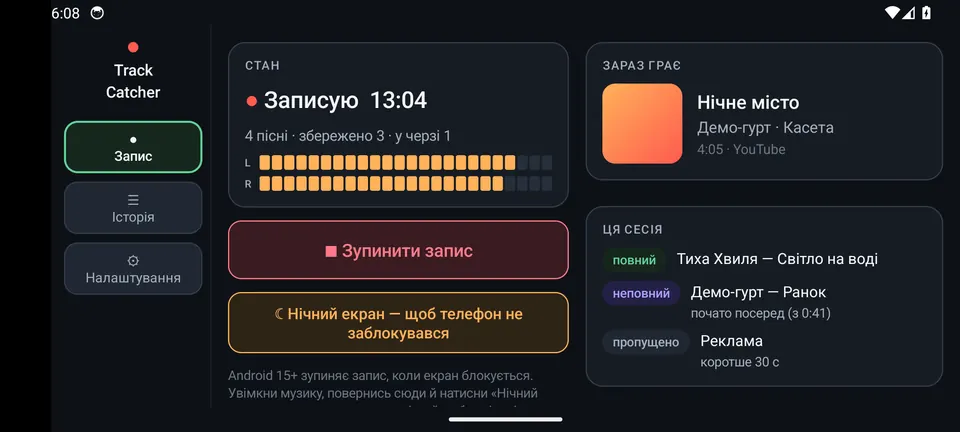
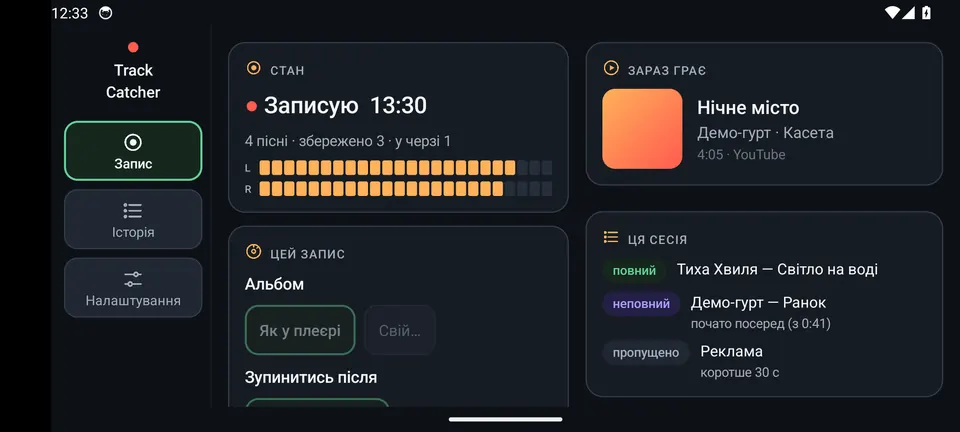
v0.1.23: значки (T58), свіжі знімки в інструкції; правило «інструкція — основа незмінна»
Claude-Session: https://claude.ai/code/session_01JRv89KPAUK5XBY9DR7pCPo

diff --git a/android/app/src/main/assets/guide/index.html b/android/app/src/main/assets/guide/index.html
@@ -333,7 +333,7 @@ details > div{padding:0 0 12px; color:var(--muted)}
 
   <div class="foot">
     <p>Записи лишаються на телефоні й нікуди не передаються. Інтернет — лише для перевірки оновлень з Google Диска автора. Без реклами й аналітики. Для особистого користування.</p>
-    <p class="mono">Track Catcher 0.1.22 · github.com/faric-ua/faric-track-catcher</p>
+    <p class="mono">Track Catcher 0.1.23 · github.com/faric-ua/faric-track-catcher</p>
   </div>
 </main>
 
@@ -650,6 +650,7 @@ details > div{padding:0 0 12px; color:var(--muted)}
       <path class="d-line" d="M162 72 C190 110 310 110 334 76" marker-end="url(#ar5)"/><text class="d-t" x="248" y="118" text-anchor="middle">⏭ (через пропущений)</text>
     </svg>
   </figure>
+  <figure><img src="img/detail.webp" alt="Подробиці запису з плеєром"><figcaption>Подробиці запису: факти, «Слухати: MP3 / WAV», плеєр.</figcaption></figure>
   <h3>Шторка й заблокований екран</h3>
   <p>Поки грає — у шторці й на заблокованому екрані картка: назва, обкладинка, смуга, ⏮ ❚❚ ⏭. Можна сховати застосунок чи вимкнути екран — музика грає далі. На першому записі ⏮ нема: раніше нічого не записано.</p>
   <p class="note">Зупинити зовсім: «Закрити» у вікні запису, або змахнути картку в шторці, коли на паузі. Під час запису слухати не можна: плеєр, який записуєш, став би на паузу.</p>
@@ -728,7 +729,7 @@ details > div{padding:0 0 12px; color:var(--muted)}
     <div class="panel"><h3>Папка для кожного альбому</h3><p class="muted"><b>Так</b> — «Track Catcher › Neon». Ні — усі пісні в одну папку.</p></div>
   </div>
   <p class="muted small">Жирним (і в зеленій рамці) — що стоїть спочатку. Під час запису налаштування видно, а зміни підуть у наступний запис.</p>
-  <figure><img src="img/settings.webp" alt="Налаштування"><figcaption>Налаштування (знімок старшої версії — тепер у «Формат файлів» ще FLAC і MP3 + FLAC).</figcaption></figure>
+  <figure><img src="img/settings.webp" alt="Налаштування"><figcaption>Налаштування: формат, якість MP3, коротші не зберігати.</figcaption></figure>
 </section>
 
 <!-- ================= 13. КРАЇ ================= -->

diff --git a/docs/guide/guide.html b/docs/guide/guide.html
@@ -643,6 +643,7 @@ details > div{padding:0 0 12px; color:var(--muted)}
       <path class="d-line" d="M162 72 C190 110 310 110 334 76" marker-end="url(#ar5)"/><text class="d-t" x="248" y="118" text-anchor="middle">⏭ (через пропущений)</text>
     </svg>
   </figure>
+  <figure><img src="img/detail.webp" alt="Подробиці запису з плеєром"><figcaption>Подробиці запису: факти, «Слухати: MP3 / WAV», плеєр.</figcaption></figure>
   <h3>Шторка й заблокований екран</h3>
   <p>Поки грає — у шторці й на заблокованому екрані картка: назва, обкладинка, смуга, ⏮ ❚❚ ⏭. Можна сховати застосунок чи вимкнути екран — музика грає далі. На першому записі ⏮ нема: раніше нічого не записано.</p>
   <p class="note">Зупинити зовсім: «Закрити» у вікні запису, або змахнути картку в шторці, коли на паузі. Під час запису слухати не можна: плеєр, який записуєш, став би на паузу.</p>
@@ -721,7 +722,7 @@ details > div{padding:0 0 12px; color:var(--muted)}
     <div class="panel"><h3>Папка для кожного альбому</h3><p class="muted"><b>Так</b> — «Track Catcher › Neon». Ні — усі пісні в одну папку.</p></div>
   </div>
   <p class="muted small">Жирним (і в зеленій рамці) — що стоїть спочатку. Під час запису налаштування видно, а зміни підуть у наступний запис.</p>
-  <figure><img src="img/settings.webp" alt="Налаштування"><figcaption>Налаштування (знімок старшої версії — тепер у «Формат файлів» ще FLAC і MP3 + FLAC).</figcaption></figure>
+  <figure><img src="img/settings.webp" alt="Налаштування"><figcaption>Налаштування: формат, якість MP3, коротші не зберігати.</figcaption></figure>
 </section>
 
 <!-- ================= 13. КРАЇ ================= -->

diff --git a/TODO.md b/TODO.md
@@ -60,5 +60,5 @@
 | T54 | **Телефон зі старою версією «не бачить» оновлень і не дає змінити посилання** (faric 16.10 01:04–01:09, M30s: «Перевірити оновлення» → «оновлення немає»; кнопки «Інше посилання» немає). Причина: у 0.1.15–0.1.16 вбудовано старий файл версії `15QLo2sf2CWvNcoyJ_6p6B5wsqxvgIUUZ` (14.10 21:55) — у ньому досі 0.1.15 (перевірено з Диска 16.10 01:05); новий файл `1y8g6…` (0.1.19) знають лише 0.1.17+ (T47). А «Інше посилання» в 0.1.16 є лише у вікні **помилки** — якщо перевірка вдала («у тебе остання / новіша»), змінити посилання ніде. Зробити: «Інше посилання» завжди доступне (у вікні «У тебе остання версія» і в «Оновлення застосунку»); подумати про «переадресацію» у файлі версії (поле з ID нового файлу) — на майбутнє, якщо файл знову зміниться. Старі телефони (0.1.16 і раніше) — разово через меню `Track Catcher → 2` | ☑ v0.1.20 — чекає телефона («Інше посилання» у вікнах «остання / новіша / інший варіант» з підказкою + кнопка «Інше посилання на оновлення» в картці; інструкція оновлена) |
 | T55 | **Запис у FLAC — без втрат, удвічі менше за WAV** (faric 16.10 03:34–03:38: «можемо писати в інших форматах? Flats…»; «хочу, щоб писав без втрат — найкращий без втрат FLAC, значить додаємо; щоб додаток дуже не ріс і систему не навантажував; конвертер уже буде з найкращої якості робити інші формати»). Зроблено v0.1.21: свій кодувальник FLAC на чистому Kotlin (`core/FlacEncoder`, ~0 КБ до APK, без кодеків телефона): блоки 4096, передбачення порядку 0–4 + код Райса, найкраще з 4 видів стерео; MD5, теги (TITLE/ARTIST/ALBUM), обкладинка (PICTURE). Формати: **FLAC (типово для нових)** · MP3 · WAV · MP3 + FLAC · MP3 + WAV; у твоїх налаштуваннях лишається вибране раніше. Перевірка: власний тестовий декодер — до біта (79 тестів core), ffmpeg з CRC — до біта (і в CI), стиснення між `flac -2` і `-5`; 4 хв пісні кодуються ~1,2 с на сервері (на телефоні — кілька секунд, легше за MP3). M4A/Opus — не робимо: це для «Audio Converter» з FLAC | ☑ v0.1.21 — чекає телефона |
 | T56 | **Збережене посилання на старий файл версії перекриває вбудоване** (faric 16.10 03:46: «на Диску два JSON — через це старий телефон не оновлюється, видали непотрібний»). Причина (найімовірніша): на M30s у 0.1.15–0.1.16 збережено посилання на старий файл (`15QLo…`, застряг на 0.1.15); перевірка брала **перше, що прочиталось** (збережене), а вбудоване в 0.1.19 (`1y8g6…`) навіть не пробувала. Зроблено: (1) старий файл — **у кошику Диска** (faric сам, 03:48; звідси видалити не дало — «немає дозволу»; перевірено: лишився лише `1y8g6…` з 0.1.20); (2) у v0.1.21 перевірка читає **всі** посилання (збережене + вбудоване) і бере найновішу версію; збережене, що старіше за вбудоване, забувається (`DriveUpdate.newest`, тест `newestWinsOverSavedOldFile`) | ☑ v0.1.21 — чекає телефона; старий файл — у кошику |
-| T57 | **Докладна інструкція користувача — красиво, зі схемами й плитками** (faric 16.10 15:03: «збери всю функціональність, подивись по репозиторіях, як ми робили, зроби інструкцію докладно; оформи красиво — з діаграмами, плитками, переходами; покажи мені, потім додаси в застосунок біля «Про застосунок»»). Зроблено: джерело `docs/guide/guide.html` (16 розділів у 6 групах, схеми SVG: стани запису, нічний екран, розріз і три способи, статуси, порядок ⏮/⏭, папки, розміри форматів у масштабі, краї, оновлення з Диска; макети плитки плеєра, «Цей запис», історії; «← Назад / Далі →» між розділами; без інтернету) → `scripts/build_guide.py` → `assets/guide/index.html`; тест `tests/test_guide.py`. Показано артефактом «Інструкція Track Catcher» (версія 2) | ☑ v0.1.22 — чекає телефона (faric 15:20 почав ставити — випущено) |
-| T58 | **Значки з інструкції — у застосунок** (faric 16.10 15:20: «у новій інструкції ярлички такі красиві, іконочки — підстав у програмі, де потрібно»). Зроблено: `ui/LineIcon.kt` — ті самі значки лініями, що в `docs/guide/guide.html` (той самий запис шляху SVG; розбір — `core/SvgPath`, тест `SvgPathTest`; тест `test_app_icons_match_guide` стежить, щоб не розійшлись); вкладки «Запис / Історія / Налаштування» — значок над назвою; бурштинові значки біля підписів карток (Стан, Зараз грає, Ця сесія, Цей запис, Що дозволити, Формат файлів, Якість MP3, Коротші не зберігати, Якщо пісня вже є, Краї пісні, Куди зберігається, Оновлення застосунку, Про застосунок, Подробиці); значки на кнопках «Нічний екран», «Як записувати — інструкція», «Інструкція користувача», «Відкрити папку», «Перевірити оновлення». Спершу знімки екранів faric, потім реліз | ◐ знімки з емулятора — показати faric |
+| T57 | **Докладна інструкція користувача — красиво, зі схемами й плитками** (faric 16.10 15:03: «збери всю функціональність, подивись по репозиторіях, як ми робили, зроби інструкцію докладно; оформи красиво — з діаграмами, плитками, переходами; покажи мені, потім додаси в застосунок біля «Про застосунок»»). Зроблено: джерело `docs/guide/guide.html` (16 розділів у 6 групах, схеми SVG: стани запису, нічний екран, розріз і три способи, статуси, порядок ⏮/⏭, папки, розміри форматів у масштабі, краї, оновлення з Диска; макети плитки плеєра, «Цей запис», історії; «← Назад / Далі →» між розділами; без інтернету) → `scripts/build_guide.py` → `assets/guide/index.html`; тест `tests/test_guide.py`. Показано артефактом «Інструкція Track Catcher» (версія 2) | ✔ faric 16.10 15:33: «інструкція вообще бомба — беремо за основу, доповнюємо; стиль і значки лишаємо» (правило — у `CLAUDE.md`) |
+| T58 | **Значки з інструкції — у застосунок** (faric 16.10 15:20: «у новій інструкції ярлички такі красиві, іконочки — підстав у програмі, де потрібно»). Зроблено: `ui/LineIcon.kt` — ті самі значки лініями, що в `docs/guide/guide.html` (той самий запис шляху SVG; розбір — `core/SvgPath`, тест `SvgPathTest`; тест `test_app_icons_match_guide` стежить, щоб не розійшлись); вкладки «Запис / Історія / Налаштування» — значок над назвою; бурштинові значки біля підписів карток (Стан, Зараз грає, Ця сесія, Цей запис, Що дозволити, Формат файлів, Якість MP3, Коротші не зберігати, Якщо пісня вже є, Краї пісні, Куди зберігається, Оновлення застосунку, Про застосунок, Подробиці); значки на кнопках «Нічний екран», «Як записувати — інструкція», «Інструкція користувача», «Відкрити папку», «Перевірити оновлення». Спершу знімки екранів faric, потім реліз | ◐ v0.1.23 у гілці; знімки з емулятора показано faric — чекає «так». У тій самій версії — свіжі знімки в інструкції (FLAC, плеєр у подробицях, значки) |

diff --git a/CLAUDE.md b/CLAUDE.md
@@ -41,6 +41,14 @@
 - `git reset --hard`, `git clean`, force-push у скриптах телефона.
 - Стандартні сірі діалоги/кнопки Android, кольори поза `Palette.kt`, галочки ✓ (`scripts/audit_ui.py` у CI).
 
+## Інструкція користувача — основа незмінна (faric 16.10 15:33)
+
+- «Інструкція вообще бомба — бери за основу, щоб сильно не змінювалась, а ми її доповнювали; поміняється інтерфейс — міняємо скріншоти; значки, стиль оформлення — лишаємо».
+- Джерело — **лише** `docs/guide/guide.html` (16 розділів-плиток у групах, схеми SVG, «← Назад / Далі →», темна тема з `Palette.kt`). Не переписувати з нуля й не міняти стиль: нова можливість — новий абзац, рядок таблиці чи плитка-розділ у наявній групі.
+- Після правки: `python3 scripts/build_guide.py` (→ `assets/guide/index.html`), тест `tests/test_guide.py`; той самий файл — артефакт «Інструкція Track Catcher» (`--fragment`).
+- Змінився вигляд екрана — свіжі знімки: пуш у `diag/ui-screens*` → `python3 scripts/guide_images.py <ui-screens>`.
+- Значки застосунку (`ui/LineIcon.kt`) — ті самі, що в інструкції; новий значок — спершу в спрайт інструкції, потім у `LineIcon` (тест `test_app_icons_match_guide`).
+
 ## Карта
 
 | Що | Де |
